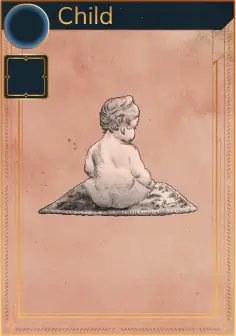
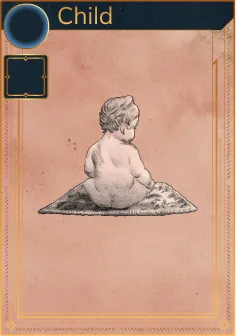
Added placeholder images for all beta cards/tokens

diff --git a/client/src/loader/assetLists.ts b/client/src/loader/assetLists.ts
@@ -44,70 +44,120 @@ export const assetLists = {
   },
   "card": {
     "files": [
+      "Abundance",
       "Ancestry",
       "Arsonist",
       "Ashes",
       "Awakening",
+      "Balance",
+      "BeggingBowl",
       "Birth",
       "Boa",
       "Bounty",
+      "Bull",
       "Cardback",
+      "Celebration",
+      "Child",
       "Child",
       "Clear View",
       "Cling",
+      "CloakOfStars",
+      "Cloud",
       "Conquer",
       "Cosmos",
       "Cradle",
+      "Craving",
       "Dagger",
       "Dash",
       "Dawn",
       "Death",
+      "Defiance",
       "Dew",
       "Dove",
+      "Dreamer",
       "Drown",
       "Ecology",
       "Enlightenment",
       "Excess",
+      "Fates",
+      "Firebug",
+      "Fish",
       "Fishing Boat",
+      "Fledgling",
       "From Ashes",
       "Fruit",
       "Gentle Rain",
+      "Goliath",
+      "Heirloom",
+      "Hero",
       "Heron",
       "Hold Tight",
       "Hollow",
+      "Hug",
       "Hungry Ghost",
       "Hurricane",
       "Iceberg",
+      "Immolant",
       "Imprison",
       "Impulse",
+      "Just Like Dad",
+      "Lantern",
+      "Let Go",
+      "LeveeBreaks",
       "Mercy",
       "Mine",
       "Moon",
       "Nascence",
       "Nectar",
+      "Nest",
       "Night Vision",
       "Nightmare",
       "Oak",
+      "Overflow",
       "Paramountcy",
       "Parch",
+      "Pass On",
       "Pet",
       "Phoenix",
+      "Pomegranate",
+      "Possibility",
       "Posterity",
+      "Precious",
       "Predator",
+      "Pregnant",
       "Prey",
+      "Pride",
       "Rebirth",
+      "Refresh",
+      "Riddle",
+      "Rooster",
+      "Rose",
+      "Rupture",
+      "Sample",
       "Secretary Bird",
       "Seen",
       "Shadow",
       "Sickness",
+      "Silence",
+      "Spark",
       "Starling",
       "Stars",
+      "Storytime",
       "Sun",
       "Sunflower",
+      "Supernova",
       "The Future",
+      "Timid",
+      "Truth",
       "Uprising",
+      "Vampire",
+      "Vampire",
       "Veteran",
-      "Wing Clipping"
+      "Victim",
+      "Vulture",
+      "Wing Clipping",
+      "Wound",
+      "Yearn"
     ]
   },
   "cutout": {

diff --git a/client/src/lib/cardImage.ts b/client/src/lib/cardImage.ts
@@ -84,20 +84,6 @@ export class CardImage {
       })
     }
 
-    // NOTE Just for beta cards
-    if (this.card.beta) {
-      const name = this.scene.add
-        .text(
-          0,
-          -Space.cardHeight / 2 + Space.pad,
-          this.card.name,
-          Style.todoBetaCardName,
-        )
-        .setOrigin(0.5, 0)
-
-      this.container.add(name)
-    }
-
     if (interactive) {
       this.image.setInteractive()
     }

diff --git a/shared/state/catalog/stars.ts b/shared/state/catalog/stars.ts
@@ -217,7 +217,7 @@ class CloakOfStars extends Card {
   }
 }
 const cloakOfStars = new CloakOfStars({
-  name: 'Cloak Of Stars',
+  name: 'CloakOfStars',
   id: 96,
   cost: 3,
   text: 'Gain 3 breath.\nMorning: Gain 1 breath for each breath you ended the last round with.',

diff --git a/shared/state/catalog/vision.ts b/shared/state/catalog/vision.ts
@@ -243,7 +243,7 @@ class BeggingBowl extends Card {
   }
 }
 const beggingBowl = new BeggingBowl({
-  name: 'Begging Bowl',
+  name: 'BeggingBowl',
   id: 92,
   cost: 2,
   text: "This consumes your opponent's Nourish.",

diff --git a/shared/state/catalog/water.ts b/shared/state/catalog/water.ts
@@ -231,7 +231,7 @@ class LeveeBreaks extends Card {
   }
 }
 const leveeBreaks = new LeveeBreaks({
-  name: 'Levee Breaks',
+  name: 'LeveeBreaks',
   id: 104,
   cost: 4,
   points: 4,
